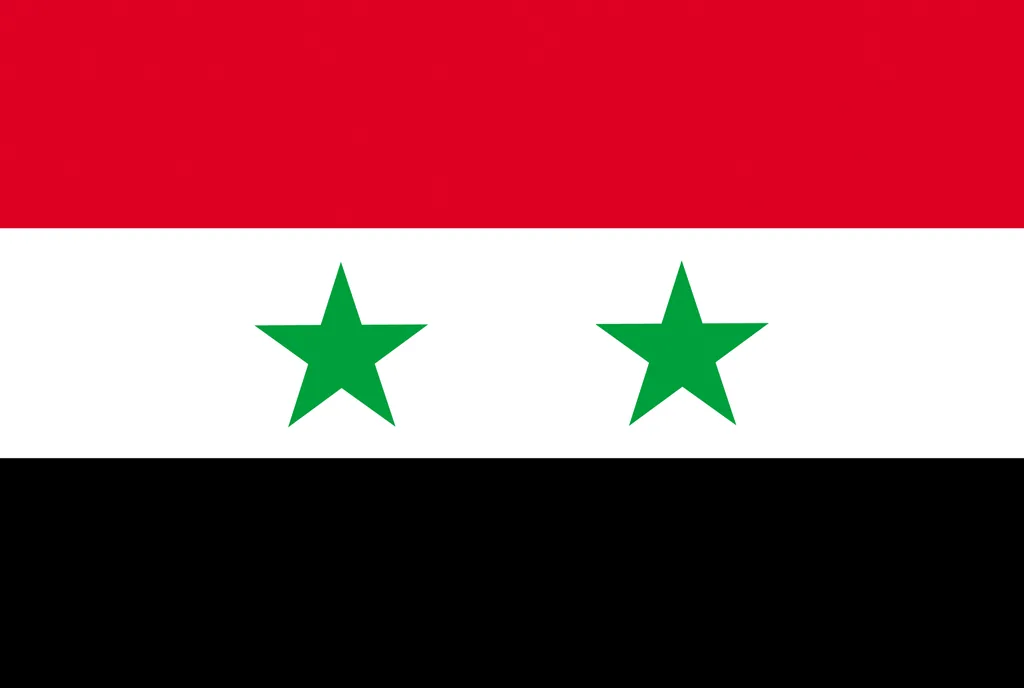
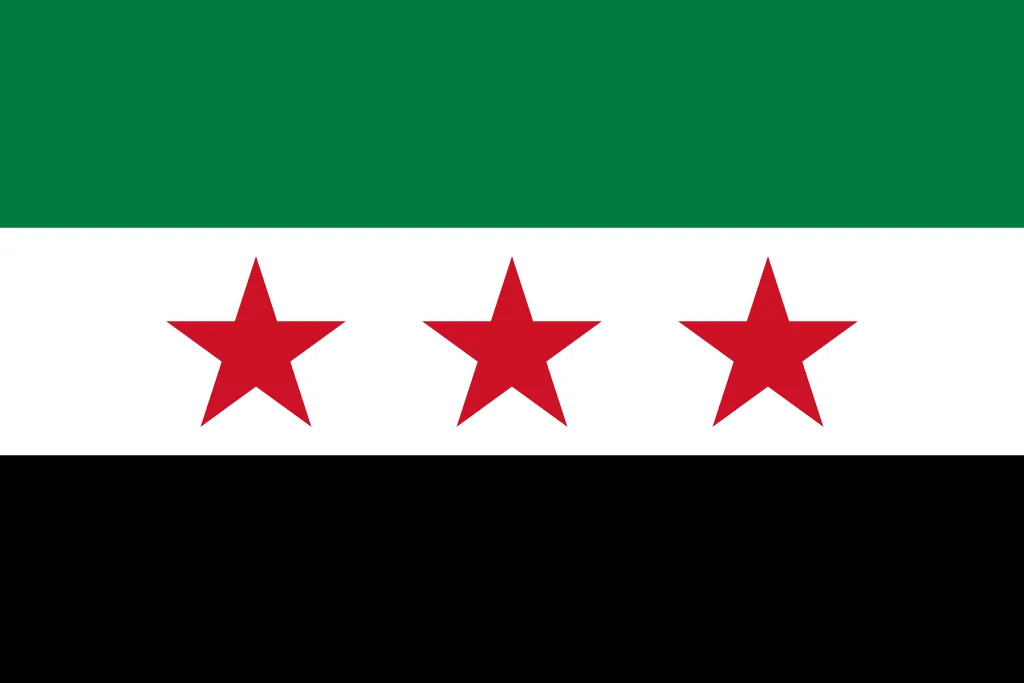
fix(flags): replace the Afghanistan and Syria masters with the current flags
The pack is a 2017 snapshot, so both were out of date: Afghanistan was the
republic tricolour and Syria the pre-2024 flag. Both go in through the override
lane rather than by editing assets, so `flags:import` stays reproducible.

Syria arrives as an SVG, which needed the filename to match `<alpha-2>-` before
`indexPack` would see it as an override at all - as `Flag_of_Syria_(2025-).svg`
it was filed under a stem no code ever asks for and `sy.jpg` still won, silently.

Afghanistan is the case worth remembering: the Emirate flag is 2:1 where the
tricolour was 3:2, so its map icon went 27x18 to 36x18 with no code touched.
That falls out of measuring FLAG_ASPECTS off the written master.

An SVG override was also being counted as "pack svg" rather than "hand-replaced",
so the console line under-reported the corrections it exists to document.

diff --git a/src/components/flagAspects.ts b/src/components/flagAspects.ts
@@ -20,7 +20,7 @@
 export const FLAG_ASPECTS: Record<string, number> = {
   ad: 1.4282,
   ae: 2,
-  af: 1.4993,
+  af: 2,
   ag: 1.4993,
   ai: 1.3333,
   al: 1.4008,
@@ -228,7 +228,7 @@ export const FLAG_ASPECTS: Record<string, number> = {
   st: 2,
   sv: 1.5015,
   sx: 1.3333,
-  sy: 1.4884,
+  sy: 1.4993,
   sz: 1.4993,
   tc: 1.3333,
   td: 1.5037,

diff --git a/CLAUDE.md b/CLAUDE.md
@@ -1005,7 +1005,7 @@ The same split as `build:data` / `enrich:data`, for the same reason:
 
 | | |
 |---|---|
-| `npm run flags:import` | **one-off**, needs `temp/classic_big_1000` (189 MB, gitignored). Writes the committed masters `assets/flags/<iso2>.webp` — 1024 px on the long side, WebP q82, 2.78 MB — and `src/components/flagAspects.ts`. |
+| `npm run flags:import` | **one-off**, needs `temp/classic_big_1000` (189 MB, gitignored). Writes the committed masters `assets/flags/<iso2>.webp` — 1024 px on the long side, WebP q82, 2.77 MB — and `src/components/flagAspects.ts`. |
 | `npm run flags:data` | **offline**, needs only the committed masters. Derives the thumbs, both map raster scales, the `public/` copies and four generated require maps. |
 
 Four sources feed the import, in priority order, and an unresolved code **throws**:
@@ -1015,20 +1015,24 @@ Four sources feed the import, in priority order, and an unresolved code **throws
    The rest of the filename is documentation and is deliberately **not parsed**: the image's own
    dimensions are what the master is built from, so a filename disagreeing with its contents could
    only mislead. (`DE-O-1200.png` has a typo where its ratio should be, and imports correctly.)
-2. **The pack's JPEG**, 202 of them, after dropping 14 non-country files (`eu`, `nato`, `scotland`, …)
+2. **The pack's JPEG**, 200 of them, after dropping 14 non-country files (`eu`, `nato`, `scotland`, …)
    and repairing three filenames.
 3. **A loose SVG dropped into the pack** — Montenegro and South Sudan, simply absent from it and both
-   quiz questions.
+   quiz questions, and Syria, present but three governments out of date. Syria's is dropped in as an
+   override (`SY-0.67-600.svg`), so rule 1 and rule 3 compose rather than competing.
 4. **`flag-icons`' 4x3 SVG** for the **41 dependent territories** the pack does not carry — Puerto
    Rico, Kosovo, the Falklands, New Caledonia. Those 41 stay 4:3; none is ever a quiz question.
 
-`@resvg/resvg-js` now runs only for those 43 SVGs, and `sharp` (devDependency, prebuilt) does the rest.
+`@resvg/resvg-js` now runs only for those 44 SVGs, and `sharp` (devDependency, prebuilt) does the rest.
 
-**The four overrides are the two ways a flag pack goes wrong, one pair each.** *Shape*: Switzerland
-is drawn 3:2 and is square; Germany came out 1.6517 against an official 3:5. *Content*: Libya was the
-pre-2011 plain green flag and Mauritania predated the red stripes added in 2017 — no amount of care
-about ratios helps with a flag that is simply out of date, and nothing in this pipeline could have
-noticed. Same shape as `scripts/countryOverrides.mjs`, minus its "this override stopped differing"
+**The six overrides are the two ways a flag pack goes wrong.** *Shape*: Switzerland is drawn 3:2
+and is square; Germany came out 1.6517 against an official 3:5. *Content*: Libya was the pre-2011
+plain green flag, Mauritania predated the red stripes added in 2017, Afghanistan was the republic
+tricolour and Syria the pre-2024 one — no amount of care about ratios helps with a flag that is
+simply out of date, and nothing in this pipeline could have noticed. **A flag that changes can change
+shape with it**: Afghanistan's white Emirate flag is 2:1 where the tricolour was 3:2, which is why
+`FLAG_ASPECTS` is re-measured off the written master and never carried over — the map icon went
+27x18 to 36x18 with no line of code touched. Same shape as `scripts/countryOverrides.mjs`, minus its "this override stopped differing"
 check, because the pack is a frozen folder rather than a package that can be upgraded underneath us.
 
 **A master's ratio is its own pixels, and 1024 px on the long side quantises it.** Germany's 5:3
@@ -1041,7 +1045,7 @@ visible rather than a discrepancy waiting to be found.
 
 | tier | where | size | drawn at |
 |---|---|---|---|
-| master | `assets/flags`, `public/flags` | 1024 long side, WebP, 2.78 MB | the quiz's flag round, `fill` |
+| master | `assets/flags`, `public/flags` | 1024 long side, WebP, 2.77 MB | the quiz's flag round, `fill` |
 | thumb | `assets/flag-thumbs`, `public/flag-thumbs` | **96 px tall**, WebP, 0.33 MB | info sheet 30 dp, search row 21, results row 18 |
 | map | `assets/map-flags` (both scales), `public/map-flags` | **18 / 54 px tall** + border, PNG, 1.06 MB | the `country-flag` symbol layer |
 
@@ -1722,8 +1726,8 @@ adb shell svc wifi enable
   quiz question, but `pr`, `ky`, `vg`, `im` and `je` are visibly the wrong shape beside a true-ratio
   neighbour in search. Fixing it needs no code: drop true-ratio sources into the pack and re-run both
   scripts.
-- **The pack is a 2017 snapshot, and four flags were wrong enough to replace by hand** — see the
-  override lane below. Nothing systematically audits the other 204 for a flag that has changed since,
+- **The pack is a 2017 snapshot, and six flags were wrong enough to replace by hand** — see the
+  override lane below. Nothing systematically audits the other 202 for a flag that has changed since,
   and no test could: a current flag and an obsolete one are both well-formed images.
 - **MapLibre vs RN 0.86** — the library is developed against 0.85.3 and declares `>= 0.80`.
 - **Release APK is x86_64 only** as built so far, and **debug-signed** (Expo's default). A proper upload
